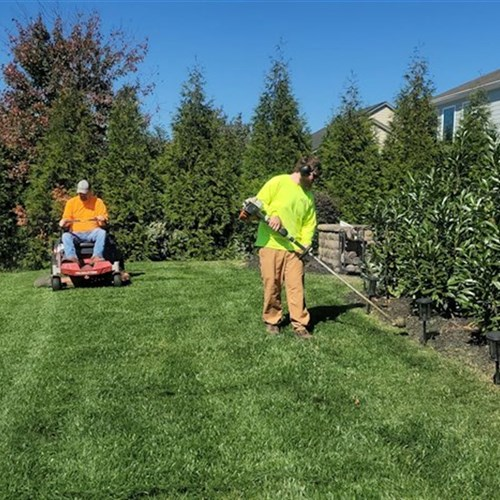
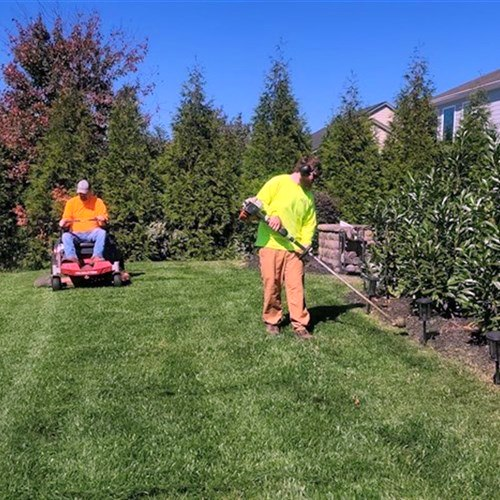
Premium image-background service cards (6 topics, hover, a11y)

diff --git a/index.html b/index.html
@@ -211,42 +211,42 @@
         <h2 id="services-title" class="center">Complete Lawn Care for North Country Homes</h2>
         <p class="section-sub center">One crew for everything — from weekly cuts to full seasonal makeovers. All work backed by our clean-cut guarantee.</p>
         <div class="services-grid">
-          <article class="card">
+          <article class="card svc-card" style="--svc-bg:url('images/equip-zero-turn.jpg')">
             <div class="icon" aria-hidden="true">🌱</div>
             <h3>Lawn Mowing &amp; Maintenance</h3>
             <p>Weekly &amp; bi-weekly mowing, crisp edging, trimming &amp; blow-off. Perfect stripes every visit.</p>
             <p class="price">from $45/visit</p>
             <a href="#contact" data-service="Weekly Lawn Mowing" class="card-link quote-link">Get price →</a>
           </article>
-          <article class="card">
+          <article class="card svc-card" style="--svc-bg:url('images/svc-fertilization.jpg')">
             <div class="icon" aria-hidden="true">🌿</div>
             <h3>Fertilization &amp; Weed Control</h3>
             <p>5-step North Country program for thick, weed-free grass safe for kids &amp; pets.</p>
             <p class="price">from $59/application</p>
             <a href="#contact" data-service="Fertilization & Weed Control" class="card-link quote-link">Get price →</a>
           </article>
-          <article class="card">
+          <article class="card svc-card" style="--svc-bg:url('images/bg-aeration.jpg')">
             <div class="icon" aria-hidden="true">🌤</div>
             <h3>Aeration &amp; Overseeding</h3>
             <p>Core aeration + premium seed to fix thin, compacted lawns common around Watertown.</p>
             <p class="price">from $149</p>
             <a href="#contact" data-service="Aeration & Overseeding" class="card-link quote-link">Get price →</a>
           </article>
-          <article class="card">
+          <article class="card svc-card" style="--svc-bg:url('images/bg-cleanup.jpg')">
             <div class="icon" aria-hidden="true">🍂</div>
             <h3>Spring &amp; Fall Cleanups</h3>
             <p>Leaf removal, branch pickup, bed cleanup &amp; final cut before winter.</p>
             <p class="price">from $129</p>
             <a href="#contact" data-service="Spring / Fall Cleanup" class="card-link quote-link">Get price →</a>
           </article>
-          <article class="card">
+          <article class="card svc-card" style="--svc-bg:url('images/scene-mulch.jpg')">
             <div class="icon" aria-hidden="true">🪴</div>
             <h3>Mulch &amp; Bed Edging</h3>
             <p>Fresh black/brown mulch, defined bed edges &amp; weed barrier for instant curb appeal.</p>
             <p class="price">from $99</p>
             <a href="#contact" data-service="Mulch & Bed Cleanup" class="card-link quote-link">Get price →</a>
           </article>
-          <article class="card">
+          <article class="card svc-card" style="--svc-bg:url('images/bg-hedge.jpg')">
             <div class="icon" aria-hidden="true">✂</div>
             <h3>Shrub Trimming &amp; Hedge Shaping</h3>
             <p>Neat, healthy shrubs &amp; hedges. One-time or seasonal shaping.</p>

diff --git a/css/style.css b/css/style.css
@@ -109,6 +109,21 @@ h2{font-size:clamp(1.5rem,3vw,2.1rem);line-height:1.2;margin:0 0 12px;text-wrap:
 .price{color:var(--green-700)!important;font-weight:800}
 .card-link{margin-top:auto;font-weight:800;text-decoration:none}
 
+/* Service image cards */
+.svc-card{position:relative;overflow:hidden;min-height:380px;color:#fff;border-color:rgba(255,255,255,.16);transition:transform .45s ease-out,box-shadow .45s ease-out}
+.svc-card::before{content:"";position:absolute;inset:0;background-image:var(--svc-bg);background-size:cover;background-position:center;transition:transform .45s ease-out}
+.svc-card::after{content:"";position:absolute;inset:0;background:linear-gradient(180deg,rgba(11,36,23,.16) 0%,rgba(11,36,23,.5) 45%,rgba(11,36,23,.9) 100%);opacity:.94;transition:opacity .45s ease-out}
+.svc-card>*{position:relative;z-index:1}
+.svc-card:hover{transform:translateY(-5px);box-shadow:0 18px 40px rgba(11,36,23,.3)}
+.svc-card:hover::before{transform:scale(1.06)}
+.svc-card:hover::after{opacity:1}
+.svc-card .icon{display:inline-flex;background:rgba(255,255,255,.16);border:1px solid rgba(255,255,255,.28);border-radius:12px;padding:6px 10px;-webkit-backdrop-filter:blur(4px);backdrop-filter:blur(4px)}
+.svc-card h3{color:#fff}
+.svc-card p{color:rgba(255,255,255,.88)}
+.svc-card .price{color:var(--lime)!important}
+.svc-card .card-link{color:#fff;text-decoration:underline;text-underline-offset:4px;text-decoration-color:rgba(255,255,255,.5)}
+.svc-card .card-link:hover{color:var(--lime);text-decoration-color:var(--lime)}
+
 /* Equipment */
 .equip-grid{list-style:none;display:grid;grid-template-columns:repeat(4,1fr);gap:16px;padding:0;margin:26px 0 0}
 .equip-grid li{background:#fff;border:1px solid var(--line);border-radius:var(--radius);padding:20px;box-shadow:0 4px 14px rgba(0,0,0,.05)}
@@ -226,4 +241,4 @@ h2{font-size:clamp(1.5rem,3vw,2.1rem);line-height:1.2;margin:0 0 12px;text-wrap:
   body{padding-bottom:72px}
   .header-cta .btn-primary{padding:10px 14px;font-size:.9rem}
 }
-@media(prefers-reduced-motion:reduce){html{scroll-behavior:auto}*{transition:none!important}.hero-slide{animation:none!important}.hero-slide:first-child{opacity:1;transform:none}.hero-video{display:none!important}}
+@media(prefers-reduced-motion:reduce){html{scroll-behavior:auto}*{transition:none!important}.hero-slide{animation:none!important}.hero-slide:first-child{opacity:1;transform:none}.hero-video{display:none!important}.svc-card:hover{transform:none}.svc-card:hover::before{transform:none}}

diff --git a/README.md b/README.md
@@ -29,6 +29,8 @@ lakeside-outdoors-services/
 - `images/work-after.jpg` (303KB) — Andres Siimon — Before/After slider (both sides; "before" side uses a CSS sepia/dull filter as a demo effect)
 - `images/crew-mowing.jpg` (1200×800, 240KB) — Carl Tronders — About section
 - `images/bg-*.jpg` (4 files, 1200×800) — hero slideshow scenes (treatment/aeration/cleanup/hedge), color-graded (saturation + contrast + warm daylight).
+- `images/svc-fertilization.jpg` (1000×667) — Unsplash pressure-sprayer action shot, service card #2.
+- Service cards reuse the above files as full-card backgrounds (zero extra downloads — browser cache).
 - `images/equip-*.jpg` (8 files, 1000–1280px wide) — equipment cards: zero-turn + stand-on + walk-behind + trimmer + blower + hedge (Unsplash, free license); aerator + overseeder + walk-behind + trimmer + blower + stand-on action shots (Wikimedia Commons contributors, CC BY-SA — keep attribution if you keep these files; swapping in your own machine photos is recommended).
 - Replace with your OWN photos anytime: keep filenames (or update `index.html` + `.ba-before/.ba-after` in `css/style.css`). Keep each <500KB, add `width`/`height` + `loading="lazy"` on every `<img>`.
 
